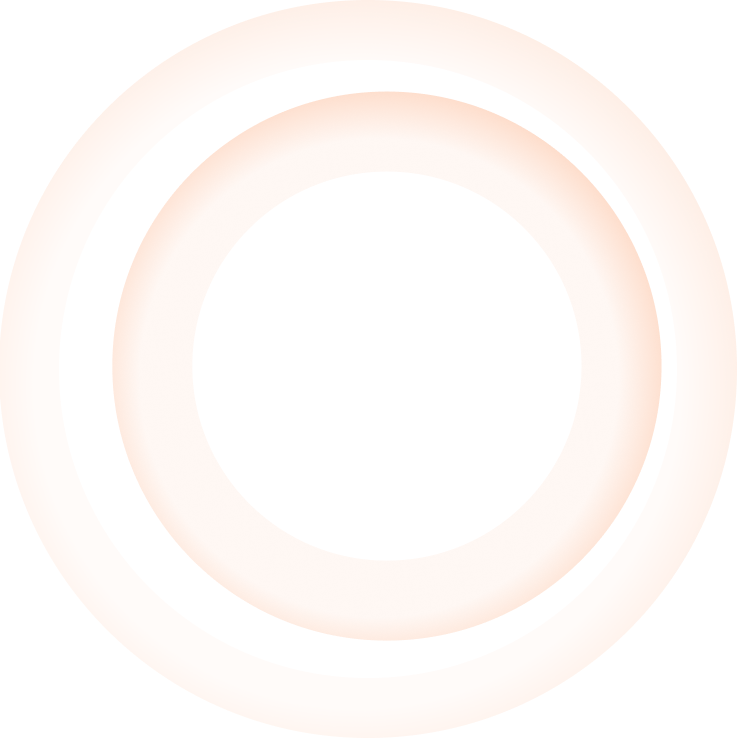
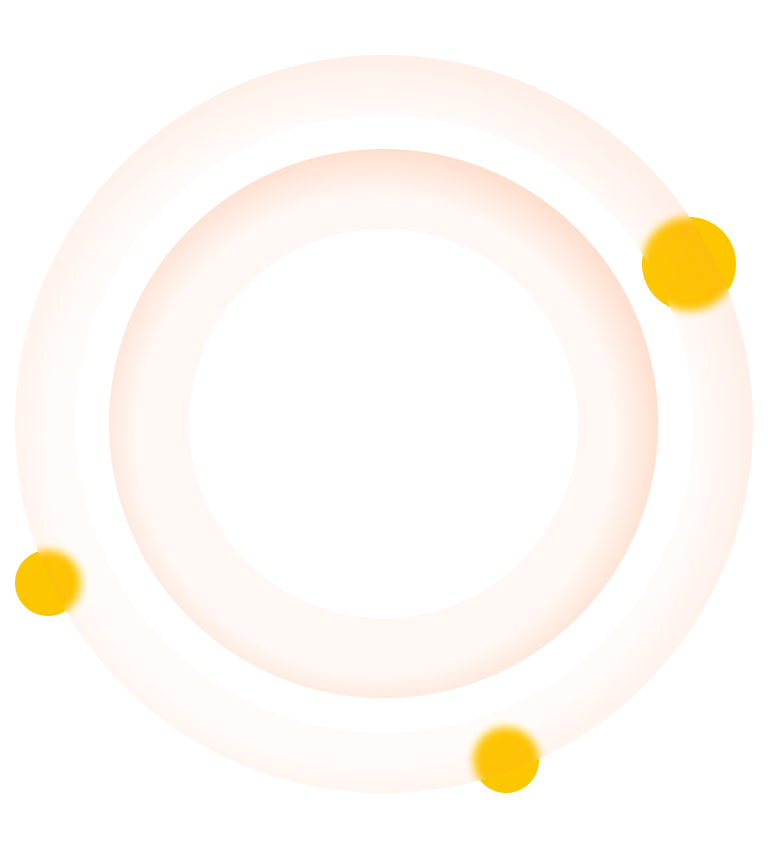
update
background circles integration

diff --git a/src/components/organisms/displayComponent/index.tsx b/src/components/organisms/displayComponent/index.tsx
@@ -6,32 +6,34 @@ import {
   MOBILE_VIDEO,
 } from '../../../../public/exporter';
 import YellowCircle from '@/components/atoms/yellowCircle';
+import BackgroundCircles from '@/components/molecules/backgroundCircles';
 
 const DisplayComponent = () => {
   return (
-    <div className="bg-white relative top-0  flex items-center justify-center w-full h-full rounded-4xl">
-      <YellowCircle />
-      <Image
-        className="absolute  animate-[wiggle_2s_ease-in-out_infinite] top-0 left-9"
-        src={ASTRONAUT_HII}
-        alt="Astronaut hi"
-      />
-      <div className="absolute flex items-center overflow-hidden bottom-0 w-[382px] h-[722px]  z-[1]">
-        <video
-          className="absolute left-[-5px] rounded-[63px] top-[58px] w-full h-full"
-          loop
-          muted
-          autoPlay
-        >
-          <source src={MOBILE_VIDEO} type="video/mp4" />
-        </video>
+    <BackgroundCircles>
+      <div className=" relative top-0  flex items-center justify-center w-full h-full ">
         <Image
-          className="absolute w-[367px] h-[722px] bottom-0"
-          src={FRAME}
-          alt=""
+          className="absolute  animate-[wiggle_2s_ease-in-out_infinite] top-0 left-9"
+          src={ASTRONAUT_HII}
+          alt="Astronaut hi"
         />
+        <div className="absolute flex items-center overflow-hidden bottom-0 w-[382px] h-[722px]  z-[1]">
+          <video
+            className="absolute left-[-5px] rounded-[63px] top-[58px] w-full h-full"
+            loop
+            muted
+            autoPlay
+          >
+            <source src={MOBILE_VIDEO} type="video/mp4" />
+          </video>
+          <Image
+            className="absolute w-[367px] h-[722px] bottom-0"
+            src={FRAME}
+            alt=""
+          />
+        </div>
       </div>
-    </div>
+    </BackgroundCircles>
   );
 };
 

diff --git a/src/components/molecules/backgroundCircles/index.tsx b/src/components/molecules/backgroundCircles/index.tsx
@@ -1,0 +1,24 @@
+import React from 'react';
+import styles from './background.module.css';
+import Image from 'next/image';
+import { CIRCLES_FRAME } from '../../../../public/exporter';
+import YellowCircle from '@/components/atoms/yellowCircle';
+interface BackgroundCirclesProps {
+  children: React.ReactNode;
+}
+
+const BackgroundCircles: React.FC<BackgroundCirclesProps> = ({ children }) => {
+  return (
+    <div className="bg-white  overflow-hidden  flex items-center justify-center rounded-4xl relative  w-full h-full">
+      <YellowCircle bottom="bottom-[200px]" left="left-[30px]" />
+      <YellowCircle bottom="bottom-[80px]" left="right-[70px]" />
+      <YellowCircle bottom="top-[100px]" left="right-[120px]" />
+      <div className={styles.radialGradient}>
+        <div className={styles.radialGradientTwo} />
+      </div>
+      {children}
+    </div>
+  );
+};
+
+export default BackgroundCircles;

diff --git a/src/components/molecules/backgroundCircles/background.module.css b/src/components/molecules/backgroundCircles/background.module.css
@@ -1,0 +1,24 @@
+.radialGradient{
+position: absolute;
+margin-top: 60px;
+width:738px;
+height: 738px;
+margin-left: 36px;
+border-radius: 738px;
+display:flex;
+flex-direction:row;
+justify-content: center;
+align-items: center;
+border: 60px solid rgba(250, 132, 67, 0.06);
+backdrop-filter: blur(5px);
+/* background: radial-gradient(rgba(250, 132, 67, 0.01),rgba(250, 132, 67, 0.01)); */
+}
+.radialGradientTwo{
+    position: absolute;
+    width:549.21px;
+    height:549.21px;
+    border-radius: 549.21px;
+    border: 60px solid rgba(250, 132, 67, 0.06);
+    backdrop-filter: blur(5px);
+    background: radial-gradient(rgba(250, 132, 67, 0.03),rgba(250, 132, 67, 0.05));
+    }

diff --git a/src/components/atoms/yellowCircle/index.tsx b/src/components/atoms/yellowCircle/index.tsx
@@ -1,7 +1,17 @@
 import React from 'react';
+import { IYellowCircleProps } from './types';
 
-const YellowCircle = () => {
-  return <div className="bg-yellow w-66px h-66px rounded-full " />;
+const YellowCircle: React.FC<IYellowCircleProps> = ({
+  top = undefined,
+  left = undefined,
+  right = undefined,
+  bottom = undefined,
+}) => {
+  return (
+    <div
+      className={`absolute ${top} ${right} ${left} ${bottom} bg-yellow w-66px h-66px rounded-full `}
+    />
+  );
 };
 
 export default YellowCircle;

diff --git a/src/app/websitedevelopment/components/Intro/index.tsx b/src/app/websitedevelopment/components/Intro/index.tsx
@@ -7,6 +7,7 @@ import {
 } from '../../../../../public/exporter';
 import Image from 'next/image';
 import DisplayComponent from '@/components/organisms/displayComponent';
+import BackgroundCircles from '@/components/molecules/backgroundCircles';
 const Intro = () => {
   return (
     <div className="flex w-full  flex-row max-w-screen-2xl justify-between">

diff --git a/public/exporter.ts b/public/exporter.ts
@@ -25,10 +25,12 @@ import MOBILE_VIDEO from './mved.mp4';
 import STAR_BG from './starbg.png';
 import CROSS from './cross.svg';
 import FRAME_BOTTOM from './frame-bottom.svg';
+import CIRCLES_FRAME from './circles.png';
 export {
   LOGO,
   CROSS,
   ASTRONAUT_RIDING,
+  CIRCLES_FRAME,
   STAR_BG,
   WEB_VIDEO,
   ASTRONAUT_SITTING,

diff --git a/src/app/websitedevelopment/page.tsx b/src/app/websitedevelopment/page.tsx
@@ -10,7 +10,7 @@ import CustomModal from '@/components/molecules/modal';
 const Web = () => {
   return (
     <div>
-      <CustomModal />
+      {/* <CustomModal /> */}
       <div className="w-full md:pl-20 pl-10 rounded-s-2xl bg-primary">
         <Header />
         <div className=" flex justify-center flex-row md:mt-5">

diff --git a/tailwind.config.ts b/tailwind.config.ts
@@ -22,6 +22,7 @@ const config: Config = {
         silverText: '#F5F7FA',
         borderGrey: '#F2F2F2',
         grey: '#868686',
+        borderCircleSec: 'rgba(250, 132, 67, 0.06)',
         borderCircle: 'rgba(219, 219, 219, 0.20)',
         orange: '#F17C04',
         yellow: '#FDC700',

diff --git a/src/components/atoms/yellowCircle/types.ts b/src/components/atoms/yellowCircle/types.ts
@@ -1,0 +1,6 @@
+export interface IYellowCircleProps {
+  top?: string;
+  left?: string;
+  right?: string;
+  bottom?: string;
+}
